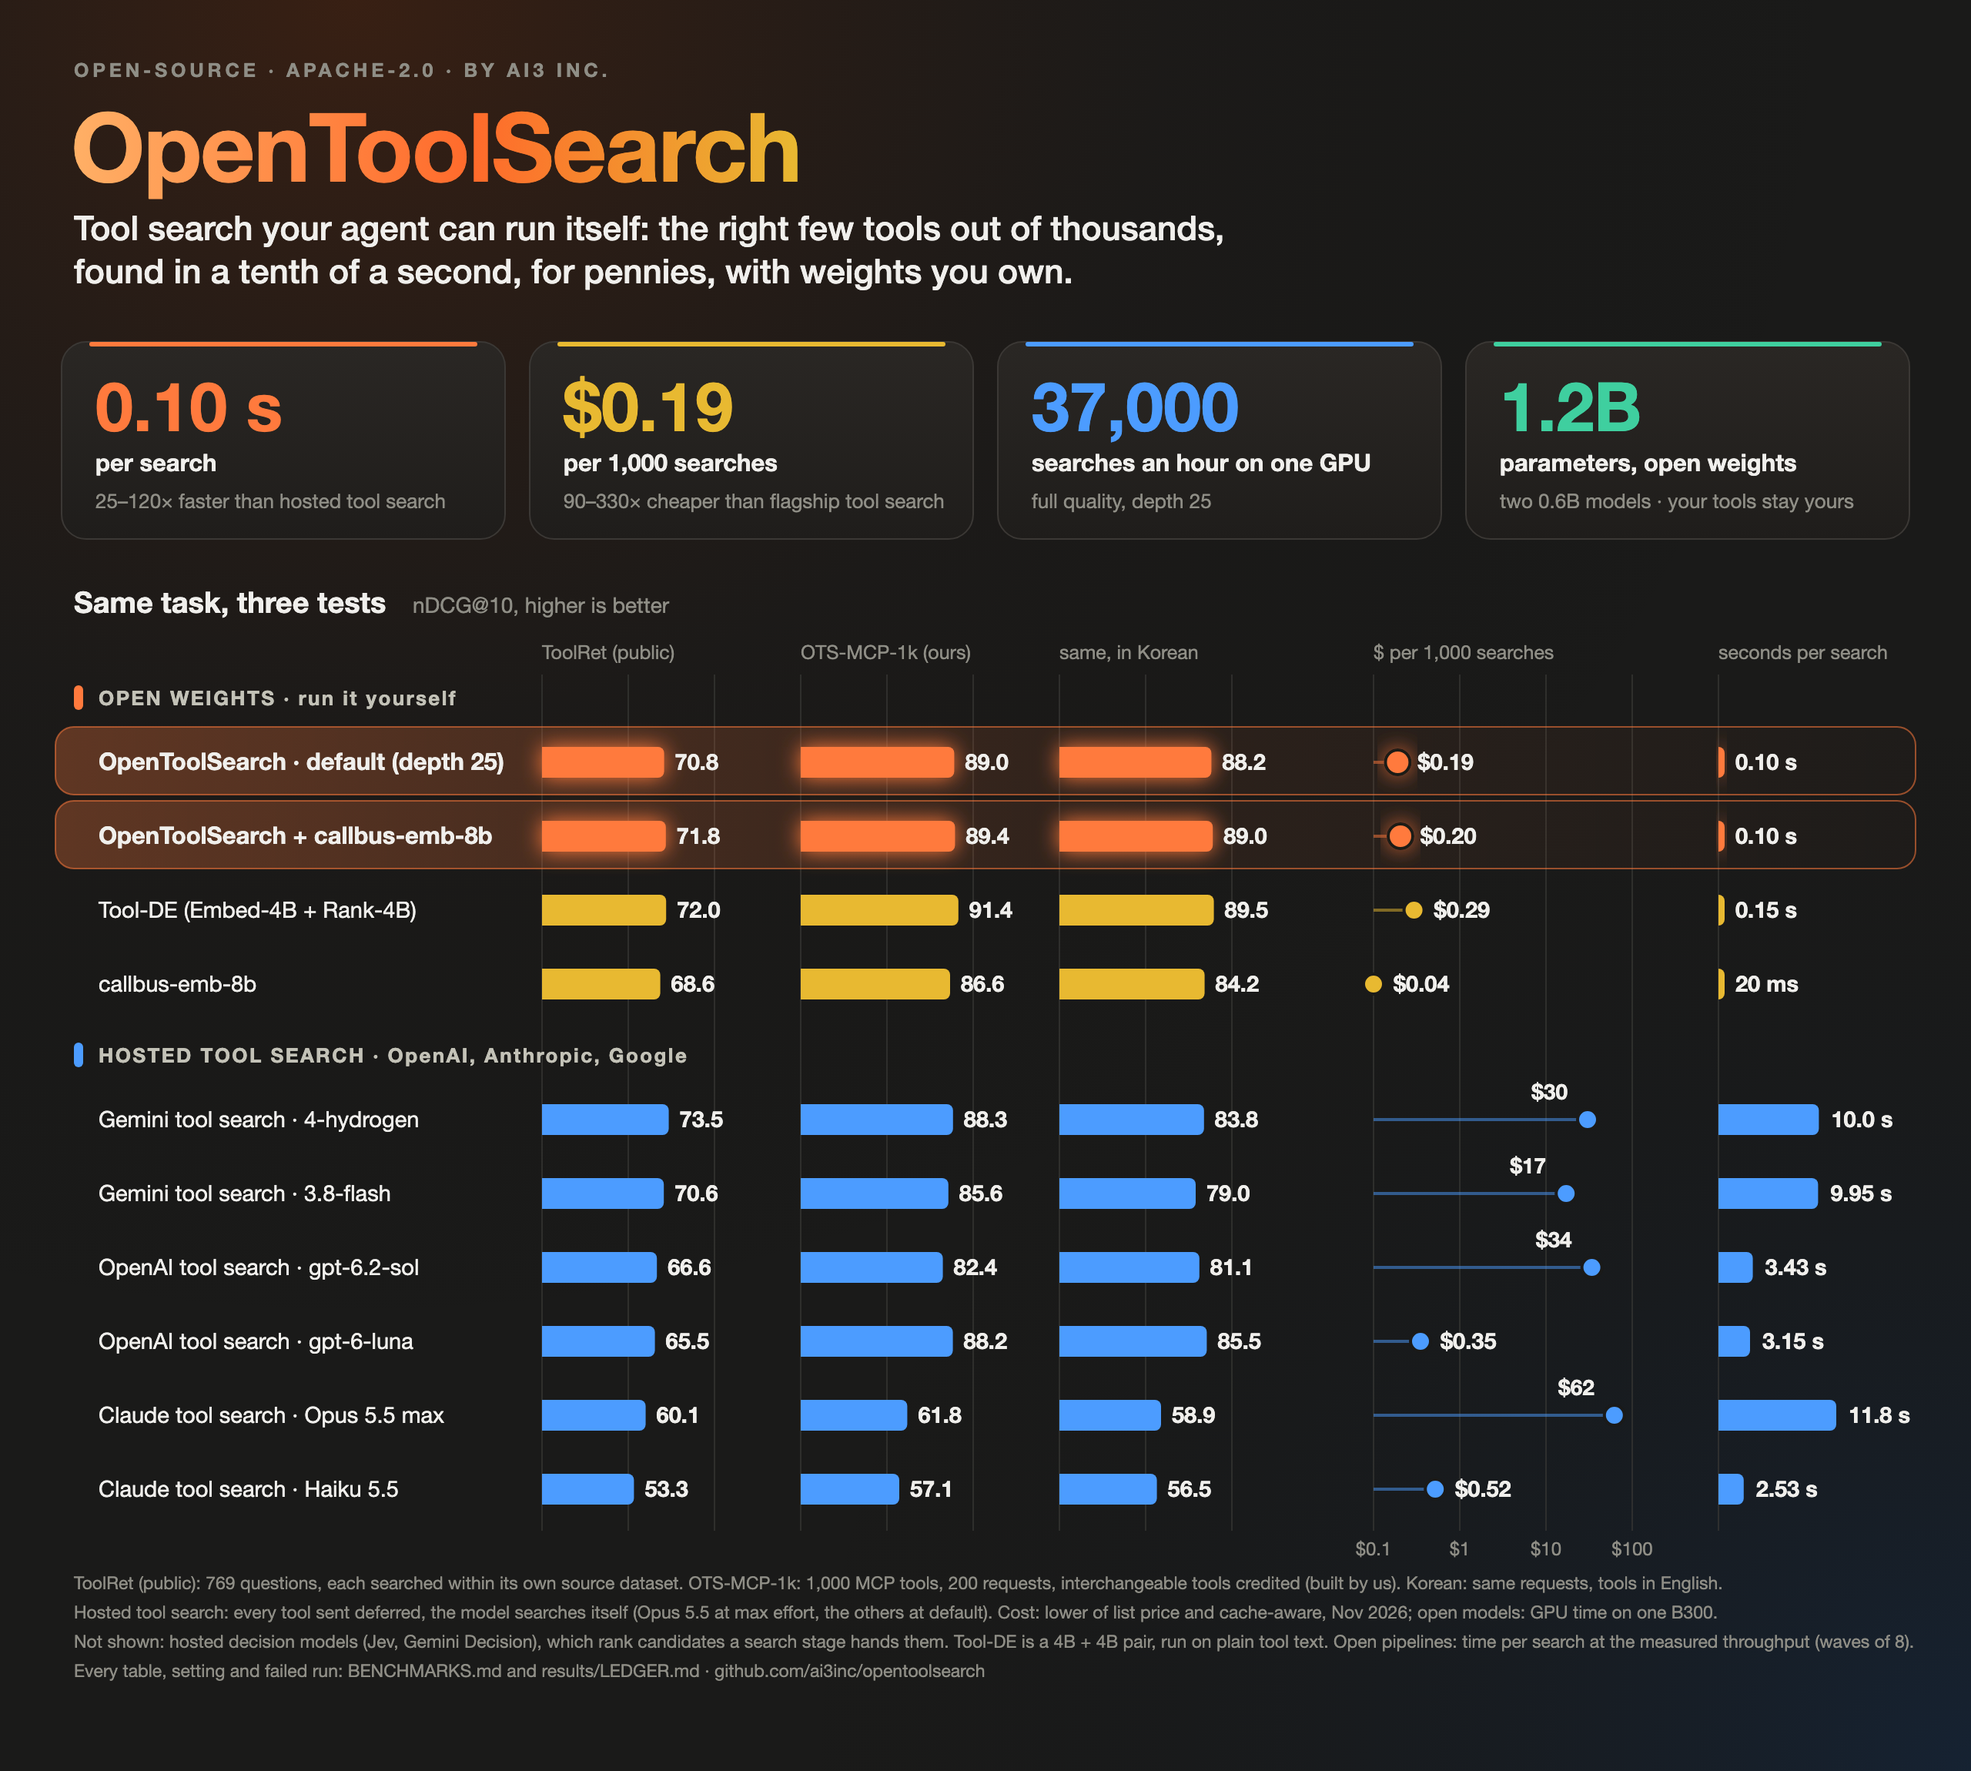
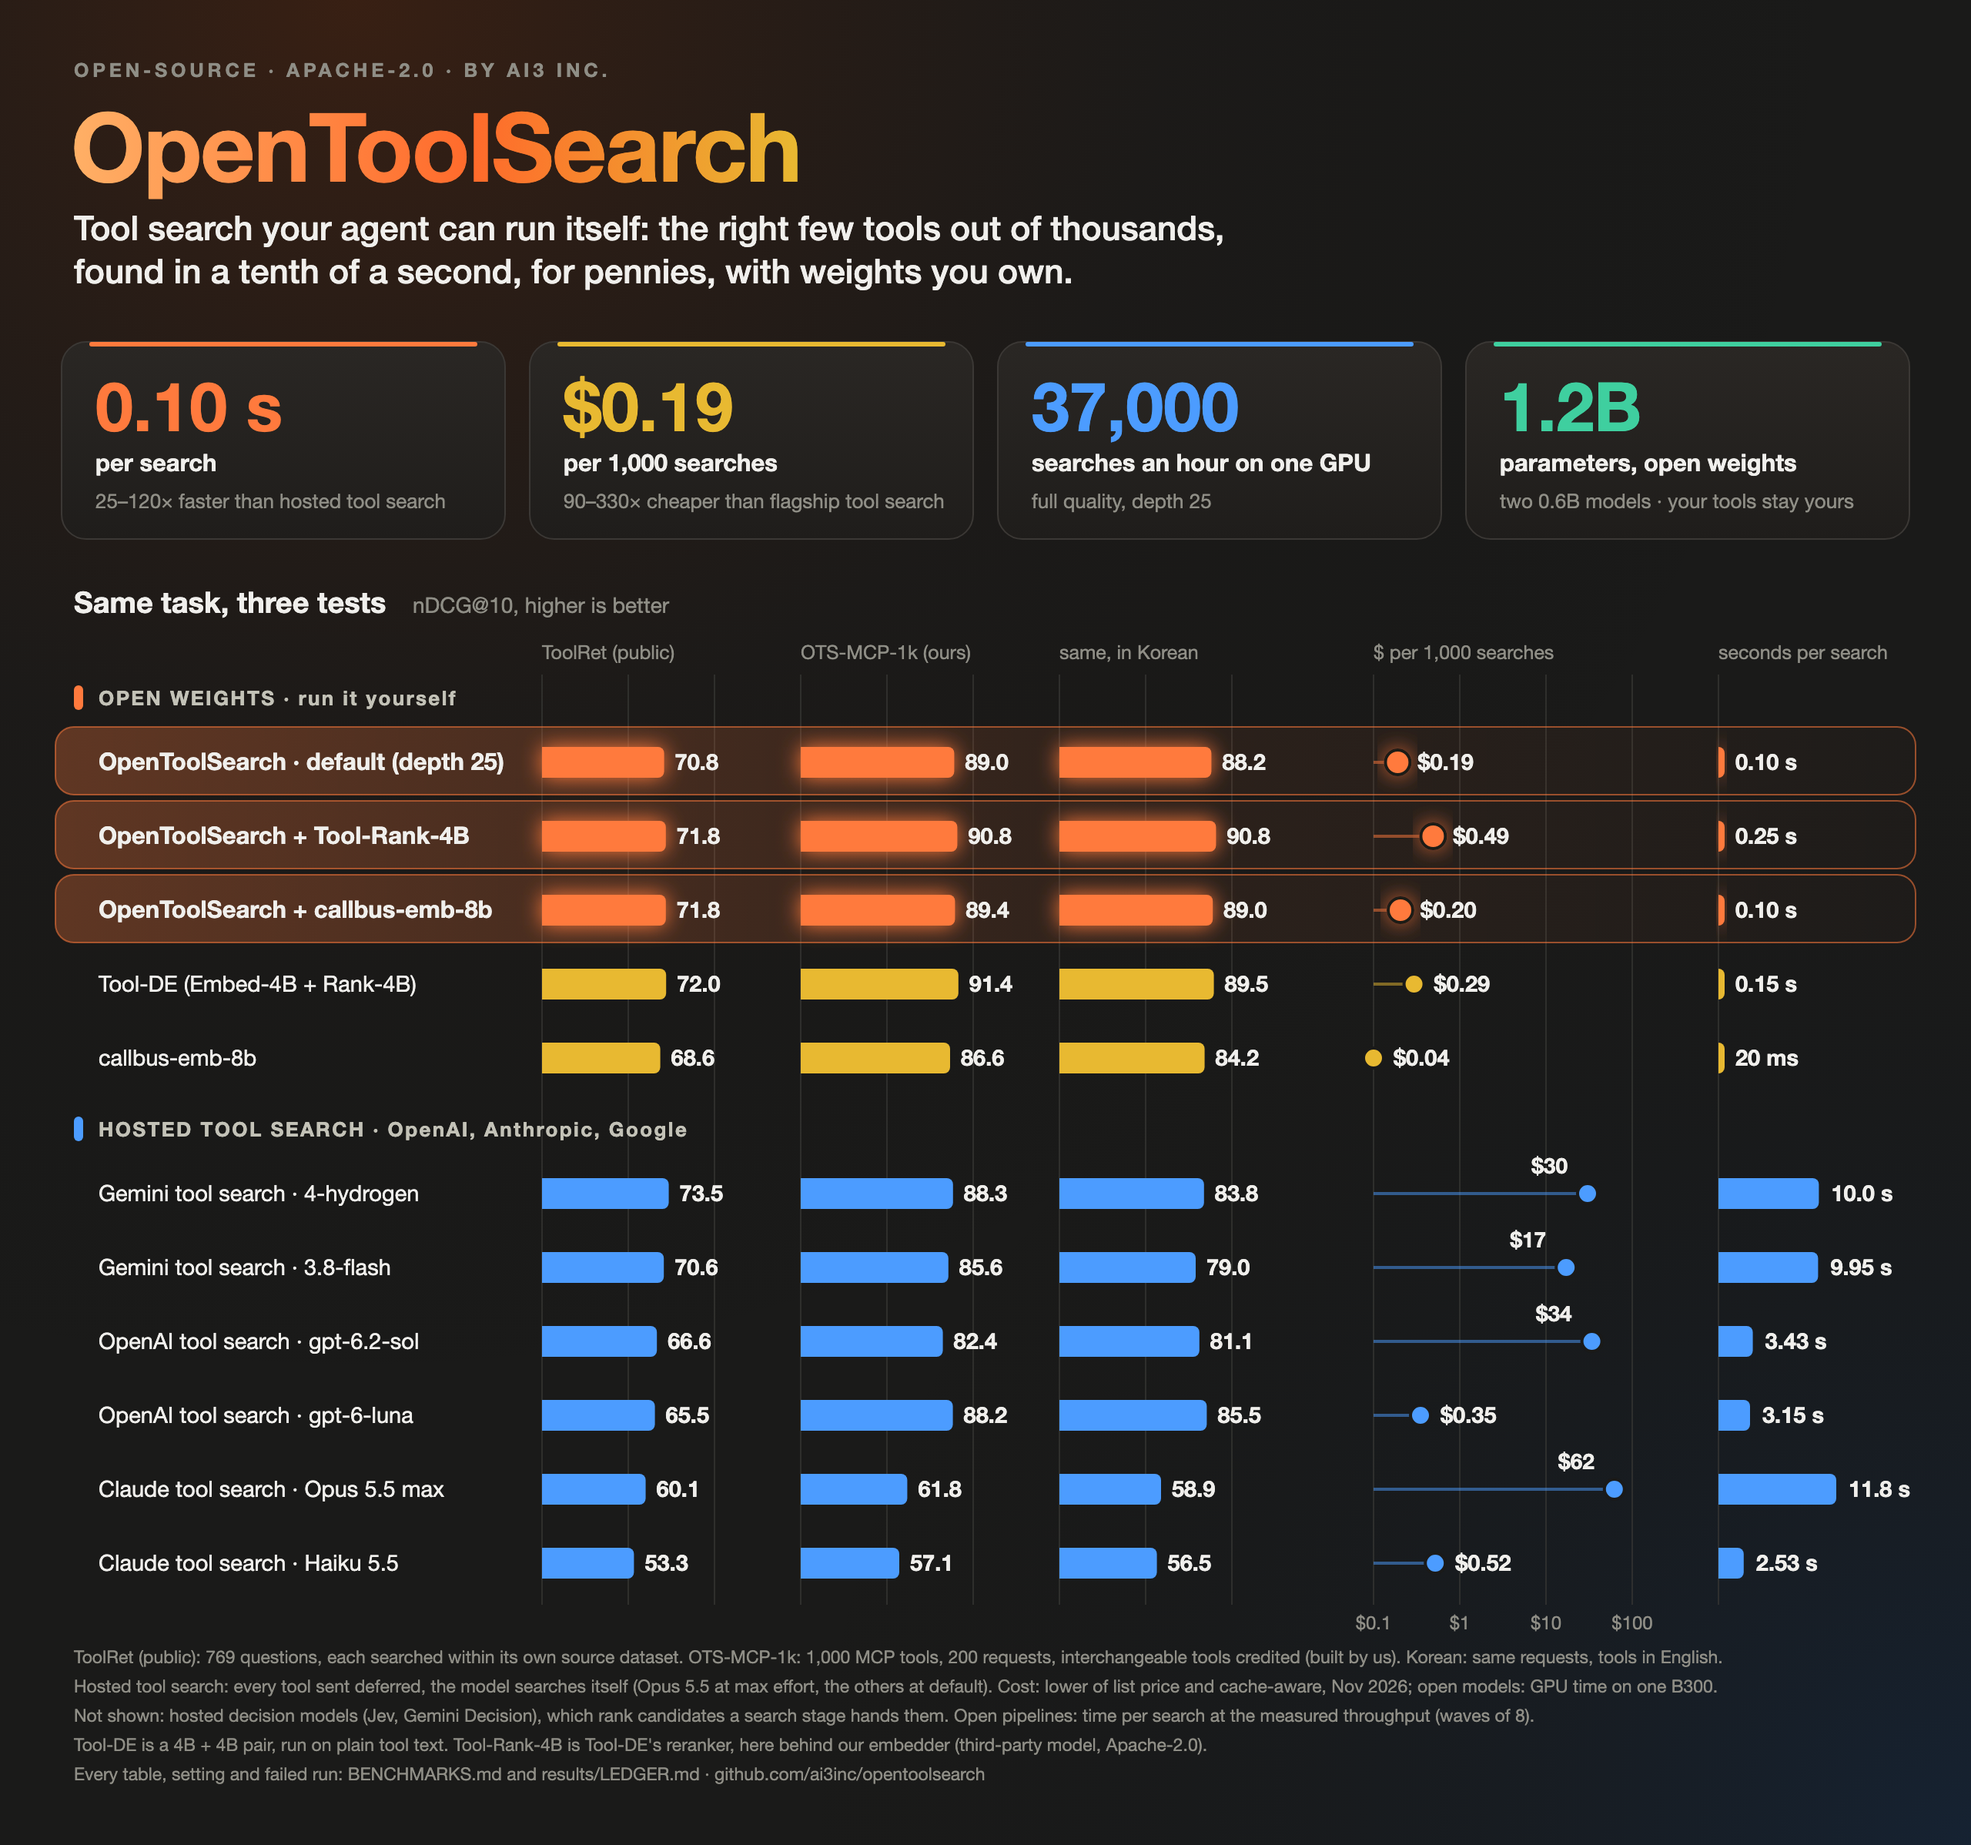
Summary table and figure: add OpenToolSearch embedder + Tool-Rank-4B (71.8 / 90.8 / 90.8); README note

diff --git a/scripts/make_figures.py b/scripts/make_figures.py
@@ -225,6 +225,8 @@ def fig_summary():
     nw = FSR["OpenToolSearch-Embed-0.6B"]["with_reranker"]
     opens.append({"name": "OpenToolSearch · default (depth 25)", "grp": "ots", "q": [nw["public"], nw["own_en"], nw["own_ko"]],
                   "cost": NEW_USD, "lat": NEW_MS / 1000, "est": not NEW_MEAS})
+    sso = R("second_stage_combos.json")["OpenToolSearch-Embed-0.6B"]; sb = sso["variants"]["B"]; tms = sso["ms_per_search_waves_of_8"]["toolrank"]
+    opens.append({"name": "OpenToolSearch + Tool-Rank-4B", "grp": "ots", "q": [sb["public"], sb["own_en"], sb["own_ko"]], "cost": tms / 1000 * GPU_USD_H / 3600 * 1000, "lat": tms / 1000})
     cb = FSR["callbus-emb-8b"]["with_reranker"]; cbs = R("default_speed_callbus.json")["waves"]["8"]           # measured end to end through the library
     opens.append({"name": "OpenToolSearch + callbus-emb-8b", "grp": "ots", "q": [cb["public"], cb["own_en"], cb["own_ko"]], "cost": cbs["usd_per_1k_at_7.09"], "lat": cbs["ms_per_search"] / 1000})
     opens.sort(key=lambda r: (r["grp"] != "ots", r["name"] != "OpenToolSearch · default (depth 25)", -r["q"][0]))
@@ -305,7 +307,8 @@ def fig_summary():
     body += group(y1, "HOSTED TOOL SEARCH  ·  OpenAI, Anthropic, Google", SKY) + draw(hosted, y1 + 34)
     foot = ["ToolRet (public): 769 questions, each searched within its own source dataset. OTS-MCP-1k: 1,000 MCP tools, 200 requests, interchangeable tools credited (built by us). Korean: same requests, tools in English.",
             "Hosted tool search: every tool sent deferred, the model searches itself (Opus 5.5 at max effort, the others at default). Cost: lower of list price and cache-aware, Nov 2026; open models: GPU time on one B300.",
-            "Not shown: hosted decision models (Jev, Gemini Decision), which rank candidates a search stage hands them. Tool-DE is a 4B + 4B pair, run on plain tool text. Open pipelines: time per search at the measured throughput (waves of 8).",
+            "Not shown: hosted decision models (Jev, Gemini Decision), which rank candidates a search stage hands them. Open pipelines: time per search at the measured throughput (waves of 8).",
+            "Tool-DE is a 4B + 4B pair, run on plain tool text. Tool-Rank-4B is Tool-DE's reranker, here behind our embedder (third-party model, Apache-2.0).",
             "Every table, setting and failed run: BENCHMARKS.md and results/LEDGER.md  ·  github.com/ai3inc/opentoolsearch"]
     for k, line in enumerate(foot):
         body += t(48, H - 118 + 19 * k, line, 11.5, MUTED)

diff --git a/scripts/make_tables.py b/scripts/make_tables.py
@@ -113,6 +113,8 @@ def table_summary():
     rows.append((nw["public"], f"| **OpenToolSearch** (0.6B + 0.6B) | open weights, this repo | **{nw['public']:.1f}** | **{nw['own_en']:.1f}** | **{nw['own_ko']:.1f}** | **{a}{usd(cost)}** | **{a}{ms/1000:.2f} s** |"))
     cb = FS["callbus-emb-8b"]["with_reranker"]; cbs = R("default_speed_callbus.json")["waves"]["8"]      # measured end to end through the library
     rows.append((cb["public"], f"| **OpenToolSearch reranker behind callbus-emb-8b** (7.6B + 0.6B) | open weights, this repo's reranker | **{cb['public']:.1f}** | **{cb['own_en']:.1f}** | **{cb['own_ko']:.1f}** | {usd(cbs['usd_per_1k_at_7.09'])} | {cbs['ms_per_search']/1000:.2f} s |"))
+    ss = R("second_stage_combos.json")[NEW]; sb = ss["variants"]["B"]; tms = ss["ms_per_search_waves_of_8"]["toolrank"]      # our embedder, Tool-Rank-4B as second stage
+    rows.append((sb["public"], f"| **OpenToolSearch embedder + Tool-Rank-4B** (0.6B + 4B) | open weights, this repo's embedder, Tool-DE's reranker | **{sb['public']:.1f}** | **{sb['own_en']:.1f}** | **{sb['own_ko']:.1f}** | {usd(tms/1000*GPU_USD_H/3600*1000)} | {tms/1000:.2f} s |"))
     for n, lab in (("Tool-DE (Tool-Embed-4B + Tool-Rank-4B)", "Tool-DE (4B + 4B)"), ("callbus-emb-8b", "callbus-emb-8b (8B, embedding only)")):
         r = DENSE[n]
         rows.append((r["public"]["ndcg10"], f"| {lab} | open weights | {f1(r['public']['ndcg10'])} | {f1(r['own_en']['ndcg10'])} | {f1(r['own_ko']['ndcg10'])} | {usd(dense_cost(r))} | {r['latency_ms_p50']/1000:.2f} s |"))

diff --git a/README.md b/README.md
@@ -49,6 +49,7 @@ be swapped for another.
 | Gemini tool search · gemini-4-hydrogen | hosted tool search | 73.5 | 88.3 | 83.8 | $30 (list $51) | 10.0 s |
 | Tool-DE (4B + 4B) | open weights | 72.0 | 91.4 | 89.5 | $0.29 | 0.15 s |
 | **OpenToolSearch reranker behind callbus-emb-8b** (7.6B + 0.6B) | open weights, this repo's reranker | **71.8** | **89.4** | **89.0** | $0.20 | 0.10 s |
+| **OpenToolSearch embedder + Tool-Rank-4B** (0.6B + 4B) | open weights, this repo's embedder, Tool-DE's reranker | **71.8** | **90.8** | **90.8** | $0.49 | 0.25 s |
 | **OpenToolSearch** (0.6B + 0.6B) | open weights, this repo | **70.8** | **89.0** | **88.2** | **$0.19** | **0.10 s** |
 | Gemini tool search · gemini-3.8-flash | hosted tool search | 70.6 | 85.6 | 79.0 | $17 (list $28) | 9.95 s |
 | callbus-emb-8b (8B, embedding only) | open weights | 68.6 | 86.6 | 84.2 | $0.04 | 0.02 s |
@@ -69,6 +70,12 @@ time on one B300. Their latency is the time per search at full throughput (waves
   (88.2-88.3) and in Korean (88.2) above all of them (best: 85.5). Tool-DE (a 4B embedder plus a 4B
   reranker) leads the open models, and the hosted decision models below lead everything on the
   public benchmark.
+- **A 4B second stage is the best open-weights quality per size we measured.** Tool-Rank-4B (Tool-DE's
+  reranker, Apache-2.0) behind our embedder scores 71.8 / 90.8 / 90.8 with 4.6B parameters, at 0.25 s and
+  $0.49 per 1,000: the highest Korean score of any system in the table and within 0.2 / 0.6 points of
+  Tool-DE on the other two. It is not first overall - Tool-DE leads on our English set (91.4), and
+  Tool-Embed-4B with both rerankers reaches 72.8 on the public benchmark; of the gaps to our default only the Korean
+  one is established ([paired bootstrap](BENCHMARKS.md#swapping-the-second-stage-what-makes-tool-de-better)).
 - **Speed and cost are where it wins.** 0.10 s against 2.5-12 s for hosted tool search; $0.19 per
   1,000 against $0.35 to $105 (gpt-6-luna and Haiku 5.5 are the cheap end). Time per search is
   measured at full throughput; a single request takes a median 66 ms.

diff --git a/hf/opentoolsearch-embed-0.6b/README.md b/hf/opentoolsearch-embed-0.6b/README.md
@@ -68,6 +68,7 @@ Together they are **OpenToolSearch**: two 0.6B models, both Apache-2.0.
 | Gemini tool search · gemini-4-hydrogen | hosted tool search | 73.5 | 88.3 | 83.8 | $30 (list $51) | 10.0 s |
 | Tool-DE (4B + 4B) | open weights | 72.0 | 91.4 | 89.5 | $0.29 | 0.15 s |
 | **OpenToolSearch reranker behind callbus-emb-8b** (7.6B + 0.6B) | open weights, this repo's reranker | **71.8** | **89.4** | **89.0** | $0.20 | 0.10 s |
+| **OpenToolSearch embedder + Tool-Rank-4B** (0.6B + 4B) | open weights, this repo's embedder, Tool-DE's reranker | **71.8** | **90.8** | **90.8** | $0.49 | 0.25 s |
 | **OpenToolSearch** (0.6B + 0.6B) | open weights, this repo | **70.8** | **89.0** | **88.2** | **$0.19** | **0.10 s** |
 | Gemini tool search · gemini-3.8-flash | hosted tool search | 70.6 | 85.6 | 79.0 | $17 (list $28) | 9.95 s |
 | callbus-emb-8b (8B, embedding only) | open weights | 68.6 | 86.6 | 84.2 | $0.04 | 0.02 s |

diff --git a/hf/opentoolsearch-rerank-0.6b/README.md b/hf/opentoolsearch-rerank-0.6b/README.md
@@ -66,6 +66,7 @@ request next to a tool definition and scores how well the tool fits.
 | Gemini tool search · gemini-4-hydrogen | hosted tool search | 73.5 | 88.3 | 83.8 | $30 (list $51) | 10.0 s |
 | Tool-DE (4B + 4B) | open weights | 72.0 | 91.4 | 89.5 | $0.29 | 0.15 s |
 | **OpenToolSearch reranker behind callbus-emb-8b** (7.6B + 0.6B) | open weights, this repo's reranker | **71.8** | **89.4** | **89.0** | $0.20 | 0.10 s |
+| **OpenToolSearch embedder + Tool-Rank-4B** (0.6B + 4B) | open weights, this repo's embedder, Tool-DE's reranker | **71.8** | **90.8** | **90.8** | $0.49 | 0.25 s |
 | **OpenToolSearch** (0.6B + 0.6B) | open weights, this repo | **70.8** | **89.0** | **88.2** | **$0.19** | **0.10 s** |
 | Gemini tool search · gemini-3.8-flash | hosted tool search | 70.6 | 85.6 | 79.0 | $17 (list $28) | 9.95 s |
 | callbus-emb-8b (8B, embedding only) | open weights | 68.6 | 86.6 | 84.2 | $0.04 | 0.02 s |
